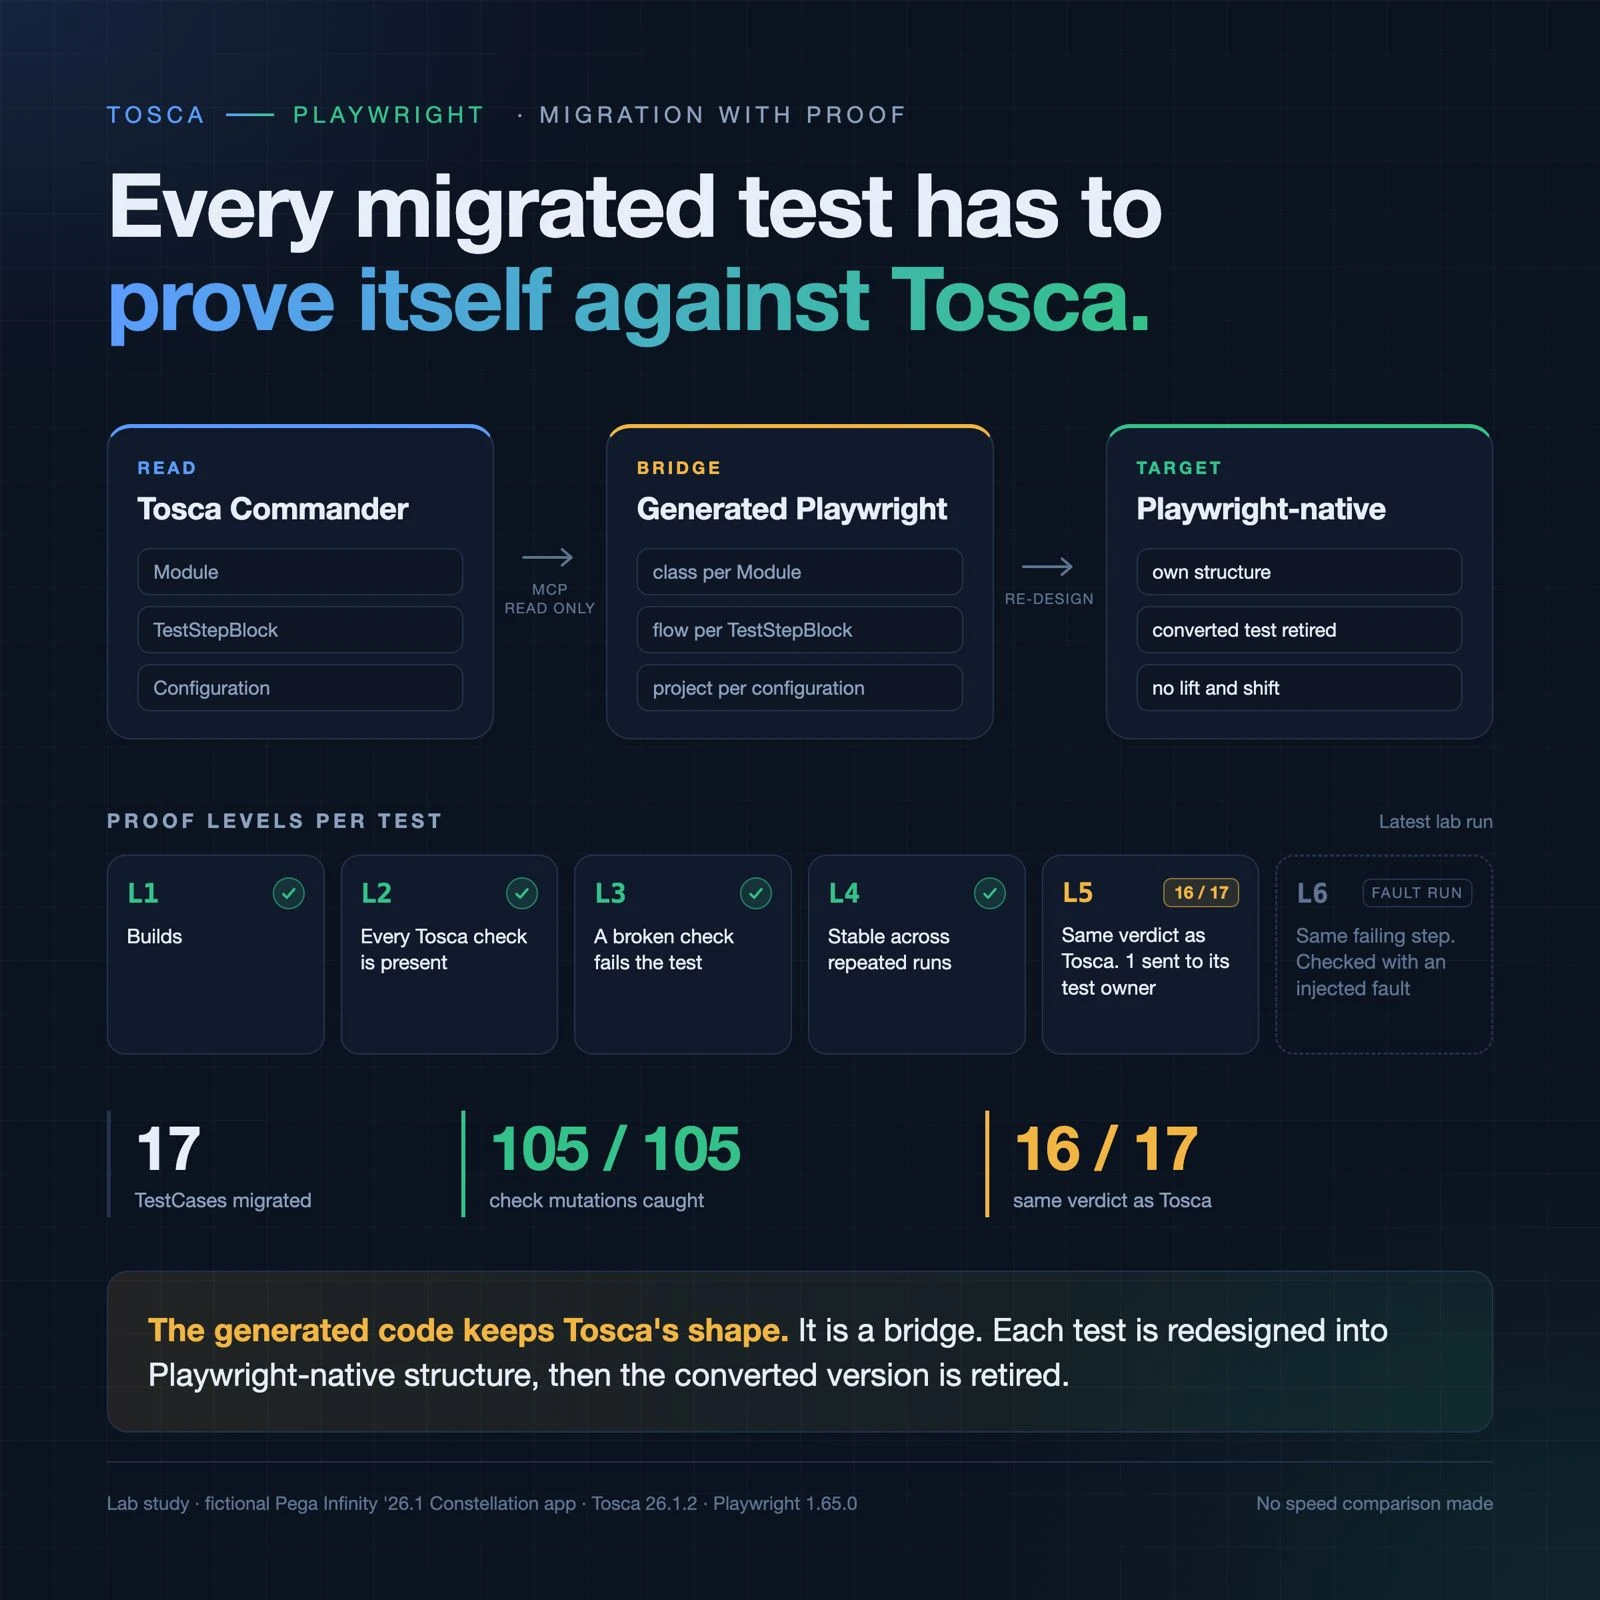
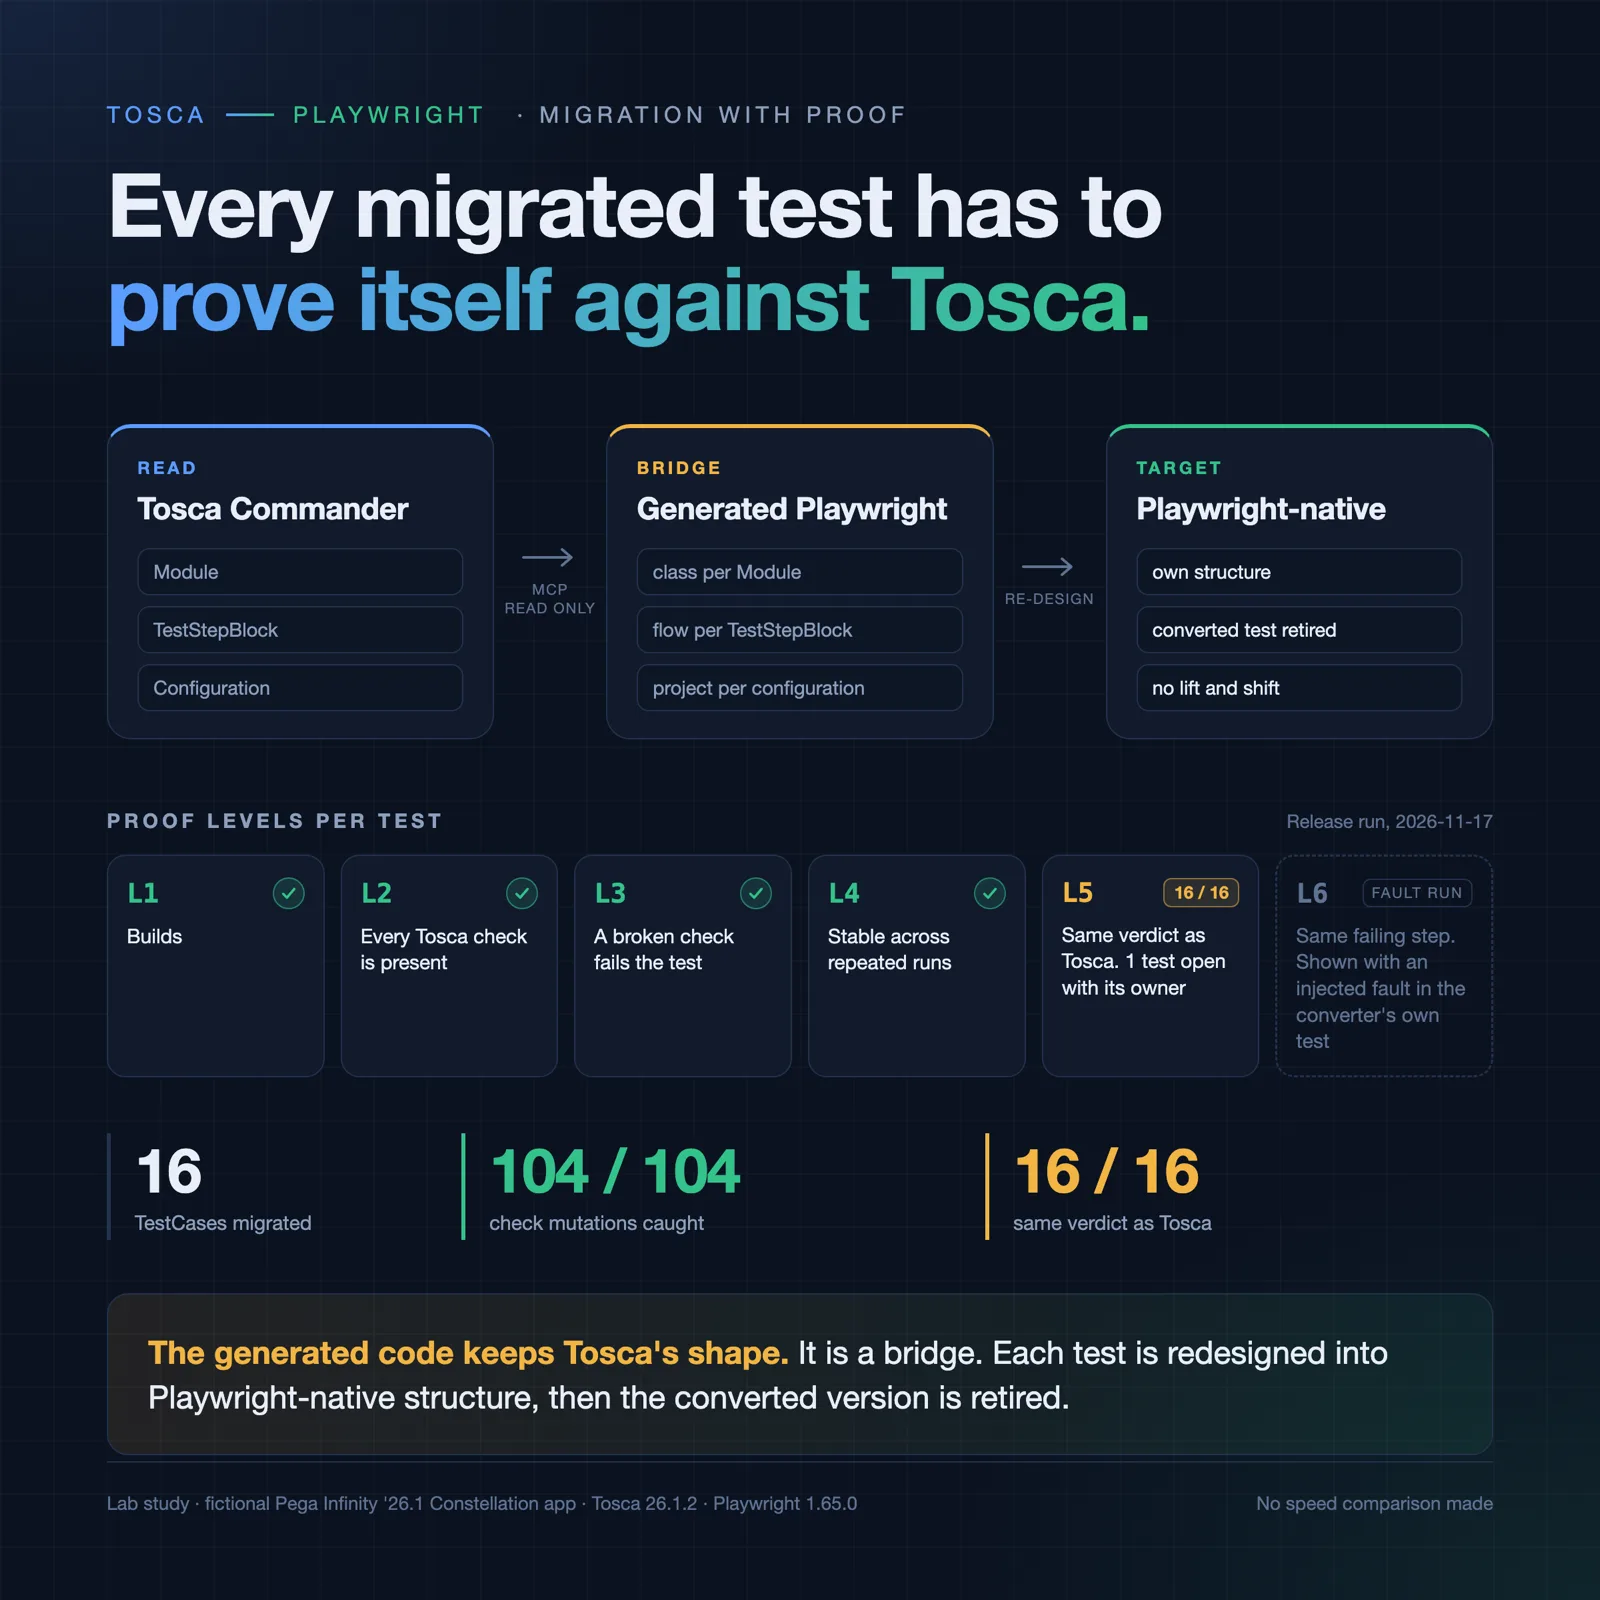
fix: infographic and alt texts show the converter's 1.0.0 release run
Regenerated cover-proof.webp (1600 px) and proof-levels.webp (960 px) from
the same infographic design with the release-run figures: 16 TestCases
migrated, 104 / 104 check mutations caught, 16 / 16 same verdict as Tosca,
1 test open with its owner; the run label reads "Release run, 2026-11-17"
and L6 says it is shown with an injected fault in the converter's own test.
The cover and image alt texts in EN, TR and NL match the new figures.

diff --git a/blog/content/prove-a-migrated-test-is-as-strong/en.md b/blog/content/prove-a-migrated-test-is-as-strong/en.md
@@ -6,7 +6,7 @@ topic: testing
 kind: essay
 status: verified
 cover: cover-proof.webp
-coverAlt: 'Infographic: Tosca to a generated Playwright bridge to Playwright-native tests, proof levels L1 to L6, 17 TestCases migrated, 105 of 105 mutations caught, 16 of 17 same verdict.'
+coverAlt: 'Infographic: Tosca to a generated Playwright bridge to Playwright-native tests, proof levels L1 to L6, 16 TestCases migrated, 104 of 104 mutations caught, 16 of 16 same verdict, 1 open.'
 evidence:
   confidence: 'High for the lab results, which come from the run on the released converter (1.0.0) on 2026-11-17. One small lab application, so an observation and not a general rule.'
   basedOn:
@@ -23,7 +23,7 @@ aiAssistance:
     - 'Claude checked the lab figures against the converter''s release record and corrected them to the run on version 1.0.0'
 ---
 
-![Infographic: Tosca Commander to a generated Playwright bridge to Playwright-native tests, proof levels L1 to L6, and the figures 17 TestCases migrated, 105 of 105 check mutations caught, 16 of 17 with the same verdict as Tosca.](proof-levels.webp)
+![Infographic: Tosca Commander to a generated Playwright bridge to Playwright-native tests, proof levels L1 to L6, and the figures 16 TestCases migrated, 104 of 104 check mutations caught, 16 of 16 with the same verdict as Tosca, 1 open.](proof-levels.webp)
 
 When a team has decided to move a test suite from Tricentis Tosca to Playwright, the part I scrutinise most is knowing that each converted test still catches what the original caught. The decision itself, whether to migrate at all, is in [a companion post](/blog/tosca-or-playwright-before-you-migrate).
 

diff --git a/blog/content/prove-a-migrated-test-is-as-strong/tr.md b/blog/content/prove-a-migrated-test-is-as-strong/tr.md
@@ -24,7 +24,7 @@ translation:
   assistedByAi: true
 ---
 
-![İnfografik: Tosca Commander, üretilmiş bir Playwright köprüsü, Playwright’a özgü testler, L1’den L6’ya kanıt seviyeleri ve şu rakamlar: 17 TestCase taşındı, kontrol mutasyonlarının 105’inin 105’i yakalandı, 17 testin 16’sı Tosca ile aynı sonucu verdi.](proof-levels.webp)
+![İnfografik: Tosca Commander, üretilmiş bir Playwright köprüsü, Playwright’a özgü testler, L1’den L6’ya kanıt seviyeleri ve şu rakamlar: 16 TestCase taşındı, kontrol mutasyonlarının 104’ünün 104’ü yakalandı, 16 testin 16’sı Tosca ile aynı sonucu verdi, 1 açık.](proof-levels.webp)
 
 Bir ekip test paketini Tricentis Tosca’dan Playwright’a taşımaya karar verdiğinde en dikkatle baktığım kısım, dönüştürülen her testin orijinalin yakaladığını hâlâ yakaladığını bilmek. Kararın kendisi, yani taşınıp taşınmayacağı, [ilk yazıda](/tr/blog/tosca-or-playwright-before-you-migrate) ele alınıyor.
 

diff --git a/blog/content/prove-a-migrated-test-is-as-strong/nl.md b/blog/content/prove-a-migrated-test-is-as-strong/nl.md
@@ -24,7 +24,7 @@ translation:
   assistedByAi: true
 ---
 
-![Infographic: Tosca Commander naar een gegenereerde Playwright-bridge naar Playwright-native tests, bewijsniveaus L1 tot en met L6 en de cijfers 17 gemigreerde TestCases, 105 van de 105 mutaties van checks gevangen, 16 van de 17 met hetzelfde oordeel als Tosca.](proof-levels.webp)
+![Infographic: Tosca Commander naar een gegenereerde Playwright-bridge naar Playwright-native tests, bewijsniveaus L1 tot en met L6 en de cijfers 16 gemigreerde TestCases, 104 van de 104 mutaties van checks gevangen, 16 van de 16 met hetzelfde oordeel als Tosca, 1 open.](proof-levels.webp)
 
 Als een team heeft besloten een testsuite van Tricentis Tosca naar Playwright te verplaatsen, is het onderdeel waar ik het kritiekst naar kijk: weten dat elke geconverteerde test nog steeds vangt wat het origineel ving. De beslissing zelf, of je überhaupt moet migreren, staat in [een bijbehorende post](/nl/blog/tosca-or-playwright-before-you-migrate).
 
